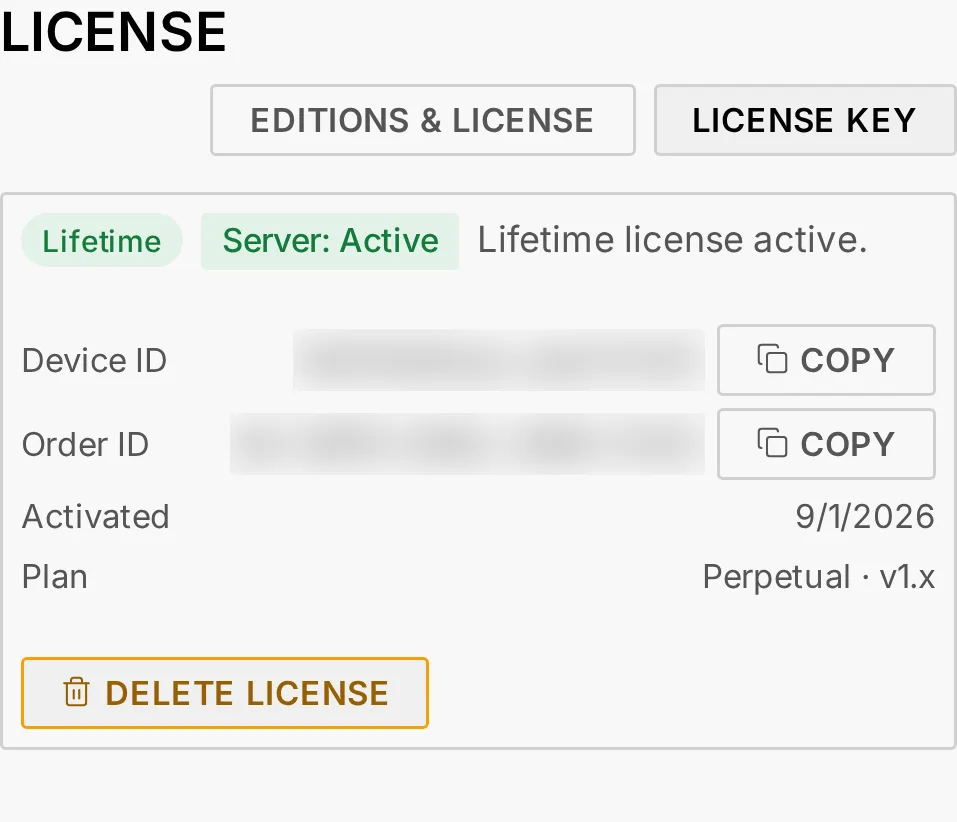
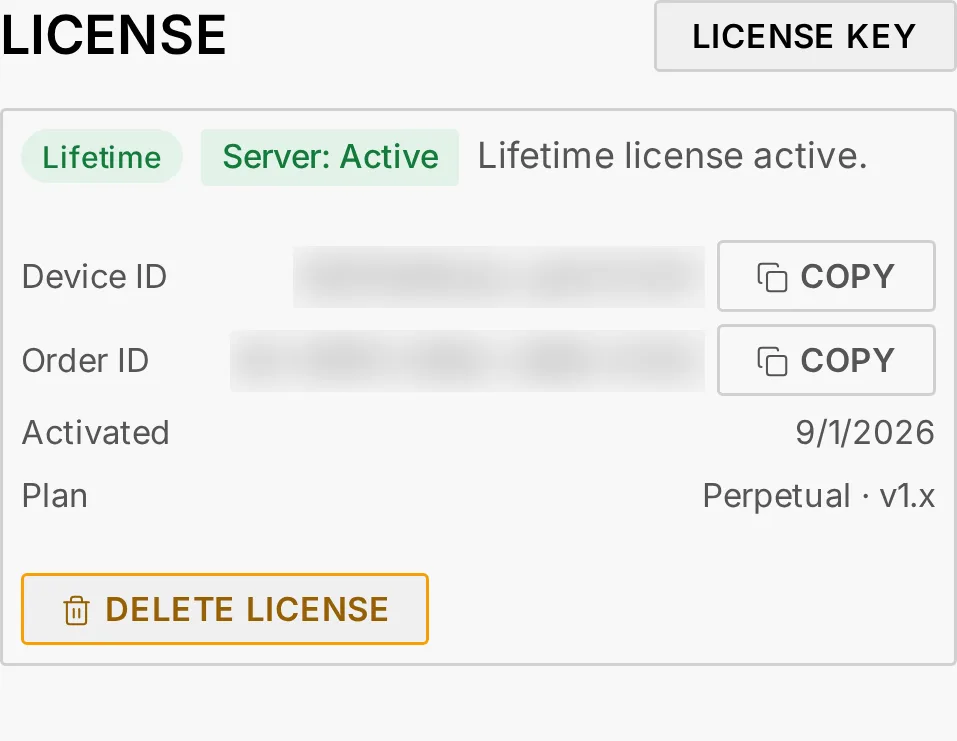
docs: describe the editions and the licence activation in the manual
The introduction lists what Starter and Pro open, tab by tab; the administration
chapter walks through the activation window and the check of an existing key, with
three new figures, and the licence panel's two figures are retaken without the
EDITIONS & LICENSE button. A locked Pro tab is said to open the activation window.
EDITIONS.md and the FAQ say every edition receives the updates of its major version.

diff --git a/docs/manual/07-administration.md b/docs/manual/07-administration.md
@@ -10,7 +10,7 @@ Admin — and **Config**, the configuration editor and its guided setup. Four ta
 The **Admin** tab gathers everything about accounts and the box's relationship with
 Audiogravi<sup>ty</sup>: the **user cards** (below), unread
 [announcements](#announcements), the [update banner](08-updating.md) — and the
-**licence** panel, which also opens when a Starter install taps a locked Pro tab.
+**licence** panel, where a Starter install lands when it taps a locked Pro tab.
 
 At the bottom of the tab, the **UI performance cockpit** measures the app itself in
 your browser: the live updates it receives, its timers, the memory it uses (in Chrome, Edge
@@ -500,13 +500,14 @@ are remembered per device.
 
 ## Licence
 
-The licence panel opens from the **Admin** tab (and automatically when a **Starter**
-install taps a Pro tab — those carry a small lock icon in the tab bar).
+The licence panel opens from the **Admin** tab. On a **Starter** install, tapping a Pro
+tab — those carry a small lock icon in the tab bar — brings you here too, with the
+*License activation* window open over the panel.
 
 - **Trial** — 30 days of full access, auto-activated on first run.
 - **Buying** — the licence panel lists the steps: *Pay with PayPal*, receive your
-  licence key by email, then **LICENSE KEY**, enter the key, **CHECK KEY** and
-  **ACTIVATE THIS MACHINE**. No restart is needed.
+  licence key by email, then activate it (see
+  [Activating a licence key](#activating-a-licence-key)). No restart is needed.
 - **Lifetime** — a `.lic` file for this one installation, identified by its
   **Device ID**. One-time payment, no subscription, no end date; it covers every 1.x
   version, and the 0.9 beta before it (see
@@ -530,6 +531,62 @@ Once the licence is activated the same panel changes shape: the countdown gives 
 the plan, the order the key came from, and the date it was activated.
 
 <img src="images/ios-license-active.webp" alt="The licence panel on an activated box: the Lifetime badge, the licence-server status, the Device ID and Order ID with their copy buttons, the activation date and the plan" width="360">
+
+### Activating a licence key
+
+**LICENSE KEY**, at the top of the licence panel, opens the *License activation* window.
+Its three steps are marked across the top: the one you are on stands out, those done
+turn green.
+
+1. **Key** — paste the key from your purchase email, `AG-XXXX-XXXX-XXXX-XXXX`.
+   *✓ Valid format* only means it has the right shape: tap **CHECK KEY →** to have it
+   checked.
+2. **Host** — *Key validated* gives the plan, and says whether this is the key's first
+   activation or a new activation on this same box. The **Device ID** is filled in: it
+   is this box, the one the licence will be tied to. The **Hostname** is filled in with
+   the box's name on your network; change it if you like, or leave it empty — it helps
+   tell your boxes apart. Tap **ACTIVATE THIS MACHINE →**, or **← BACK** to change the
+   key.
+3. **Activate** — *Activation successful*, with the key, the Device ID, the date and
+   the plan, and all three steps in green. Every Pro feature is open at once.
+   **DOWNLOAD .LIC FILE ↓** saves a copy of the licence file.
+
+<img src="images/ios-license-activation.webp" alt="The License activation window at its second step: Key validated with the plan, the Device ID filled in, the Hostname field, and the Back and Activate this machine buttons" width="360">
+
+<img src="images/ios-license-activated.webp" alt="The License activation window after a successful activation: all three steps in green, the key, the Device ID, the activation date, the plan, the Active status and the Download .lic file button" width="360">
+
+When a key is refused, the window says why. At **CHECK KEY**:
+
+- *No license found for this key on this device.* — check the key against your
+  purchase email. If it is right, it is tied to another box: after a reinstall or on a
+  new machine, see
+  [9. Troubleshooting](09-troubleshooting.md#licence-not-recognised-after-a-reinstall-or-a-new-machine).
+- *This license has been revoked.* or *This license expired on …* — the key can no
+  longer be activated.
+- *Could not reach the license server. Please try again.* — try again in a moment.
+
+At **ACTIVATE THIS MACHINE**:
+
+- *This license is already activated on another machine.* — the same as a key tied to
+  another box, above.
+- *License server temporarily unavailable. Please retry.* — try again in a moment. The
+  key stays filled in, even after you reload the page.
+
+### Checking a licence key
+
+Under the activation steps, **Verify existing license** looks a key up without
+activating anything. Paste the key and tap **VERIFY →**: this box's **Device ID**,
+filled in, is checked with it. The answer gives the plan, the end date of a
+time-limited licence, and the key's status:
+
+- **NOT ACTIVATED** — the key is valid and not yet used: activate it with the steps
+  above.
+- **ACTIVE** — the key is already activated on this box.
+- **REVOKED** or **EXPIRED** — the key can no longer be used.
+- *No license found for this key on this device.* — the key does not exist, or it is
+  tied to another box.
+
+<img src="images/ios-license-verify.webp" alt="Verify existing license: the key typed in, this box's Device ID, the Verify button, and the answer with the key, the plan and the Active status" width="360">
 
 ### What the box sends to the licence server
 

diff --git a/CHANGELOG.md b/CHANGELOG.md
@@ -9,7 +9,18 @@ and this landing) are documented here. Format based on
 
 ## [Unreleased]
 
+### Added
+- **[manual] The manual says how to activate a licence key, and how to check one.** The Licence section of the administration chapter walks through the *License activation* window's three steps — key, host, activate — and every refusal it can show, at each step; then *Verify existing license* and what each status means: *ACTIVE* is a key already activated on this box. Three figures show the second step, a successful activation and a checked key, taken with an example key and a made-up Device ID.
+- **[manual] The introduction lists what each edition opens.** Sixteen rows, Starter against Pro, under the names of the app's own tabs. They come from what the app locks: the Library, Pipeline, Systemd and Performance tabs, the playback controls and the full-screen player. The short table above them no longer gives a partial list of its own.
+
+### Changed
+- **[ui][manual] The licence panel's *EDITIONS & LICENSE* button is gone.** It opened a copy of the editions and of the licence agreement kept by hand in the app. The editions are in the manual's introduction, and the licence agreement is linked from the sign-in page and from the footer. *LICENSE KEY* moves up beside the panel's title, and the manual's two figures of the panel are retaken without the button.
+- **[manual] A locked Pro tab is said to open the activation window.** On Starter, tapping one takes you to the licence panel with the *License activation* window open over it; the manual said it opened the panel.
+
 ### Fixed
+- **[site][manual] Every edition is said to receive updates.** `EDITIONS.md` gave the trial and Starter no updates, and the manual's FAQ named Pro alone. The trial, Starter and Pro all receive the updates of their major version, as the licence server offers them; Pro holders keep a preferential price for the next major version.
+- **[ui] The activation window shows its last step done.** Once the licence was active, *03 · ACTIVATE* stayed black under a green *Activation successful*: a step is done once a later one is shown, and none comes after the third. All three now turn green.
+- **[ui] The activated licence's Device ID stays inside its frame.** Sixty-four characters with nowhere to break, it ran past the certificate's edge on a phone; it now wraps.
 - **[ui] In the top bar, each name sits on its figure's line, beside its own figure.** Wherever the names read inline, from 430 px wide, a name sat 2 px above its figure and 10 px from it — the uptime's 4 px — and on a phone or a tablet a figure stood nearly as close to the next name as to its own. Each name now shares its figure's line, 8 px from it, and two pairs stand 16 px apart. A figure turning orange or red still moves none of its neighbours. Under 430 px, where each name sits over its figure, nothing changes.
 
 ## [0.9.67] - 2026-10-06

diff --git a/docs/manual/01-introduction.md b/docs/manual/01-introduction.md
@@ -53,11 +53,36 @@ though everything remains open and inspectable if you want to.
 | Edition | Price | What you get |
 |---------|-------|--------------|
 | **Trial** | Free · 30 days | Everything, including all Pro features |
-| **Starter** | Free · forever | Profiles, Services, Audio Software, System, Users, **Config** (editor + guided setup) |
-| **Pro** | €49 · lifetime, one machine | Library, Player, Audio Pipeline, Performance tuning, Systemd tuning |
+| **Starter** | Free · forever | Running and setting up the box — see the table below |
+| **Pro** | €49 · lifetime, one machine | Everything, for good |
 
 Pro is a **lifetime licence** — no subscription, no renewal. You can start on the
 free 30-day trial; it activates automatically on first run.
+
+What each edition opens — the trial opens everything:
+
+| | Starter | Pro |
+|---|:---:|:---:|
+| **Profiles** — switch between audio scenarios in one tap | ✓ | ✓ |
+| **Services** — watch and control the audio services | ✓ | ✓ |
+| **Audio Software** — install, update and remove audio engines | ✓ | ✓ |
+| **System** — the hardware and the audio devices at a glance | ✓ | ✓ |
+| **Config** — each service's own settings, and the guided setup (administrators) | ✓ | ✓ |
+| **Admin** — users and passkeys, announcements, updates, the licence | ✓ | ✓ |
+| **Push notifications** | ✓ | ✓ |
+| **Now playing** — the track, its cover and its format, in the mini-player | ✓ | ✓ |
+| **DSD at full volume** — the volume locked while a DSD track plays | ✓ | ✓ |
+| **Playback controls** — play, pause, skip, seek, volume, and the full-screen player with its sleep timer | — | ✓ |
+| **Library** — browse, search and queue your music, UPnP servers, Roon, Qobuz, Tidal and HIGHRESAUDIO; send it to a network renderer | — | ✓ |
+| **Internet radio** | — | ✓ |
+| **Outputs and HQPlayer** — switch outputs, change HQPlayer's filter and noise shaper | — | ✓ |
+| **Pipeline** — the live signal path, from the source to the DAC | — | ✓ |
+| **Systemd** — real-time priorities and CPU pinning for the audio services | — | ✓ |
+| **Performance** — CPU governors and the latency test | — | ✓ |
+
+On Starter, a Pro tab carries a small lock; tapping it takes you to the licence panel,
+with the *License activation* window open (see
+[7. Administration → Licence](07-administration.md#licence)).
 
 > **Note:** streaming from Qobuz, Tidal or HIGHRESAUDIO requires your own active
 > subscription to each service. Audiogravi<sup>ty</sup> does not provide access to them.

diff --git a/EDITIONS.md b/EDITIONS.md
@@ -14,8 +14,9 @@ Days remaining are shown in **Admin › License**.
 
 ## Starter Edition — Free
 
-Activated automatically when the trial expires — no action required. Includes the essentials
-to run and monitor your audio system:
+Activated automatically when the trial expires — no action required. It keeps receiving the
+updates of its major version (e.g. v1.x), as Pro does. Includes the essentials to run and
+monitor your audio system:
 
 - **Profiles** — one-click switching between pre-configured audio chain scenarios; activates required services and stops conflicting ones automatically
 - **Services** — real-time monitoring and control of audio services (start / stop / restart / enable at boot) with live CPU, memory and I/O metrics, each with a sparkline of its recent values
@@ -60,7 +61,7 @@ Everything in Starter, plus:
 | **Cost** | Free | Free | One-time (€49) |
 | **Duration** | 30 days | Unlimited | Unlimited |
 | **Activation** | Automatic | Automatic | Manual |
-| **Updates** | — | — | v1.x included |
+| **Updates** (within the major version, e.g. v1.x) | ✓ | ✓ | ✓ |
 | **Profiles** | ✓ | ✓ | ✓ |
 | **Services** | ✓ | ✓ | ✓ |
 | **Software** | ✓ | ✓ | ✓ |

diff --git a/docs/manual/03-first-run.md b/docs/manual/03-first-run.md
@@ -194,8 +194,8 @@ map:
 
 <img src="images/ios-tab-menu.webp" alt="The tab menu on a phone: the app's tabs, and Library unfolded into its views — Browse, Search, Queue, Sources and Radio — the one shown marked" width="216">
 
-On a **Starter** licence the Pro tabs carry a small lock — tapping one opens the
-licence panel. **Config is not one of them**: editing a service's configuration
+On a **Starter** licence the Pro tabs carry a small lock — tapping one takes you to the
+licence panel, with the *License activation* window open. **Config is not one of them**: editing a service's configuration
 file and the guided setup are available on every edition — configuring the
 machine is part of owning it. The sticky **Now Playing bar** sits above the
 footer whatever the

diff --git a/RELEASE_NOTES.md b/RELEASE_NOTES.md
@@ -7,7 +7,16 @@ Synthesized overview of each release. For the full line-by-line changelog, see
 
 ## Unreleased
 
-_Nothing yet._
+### Licence
+
+**What each edition opens, in the manual.** The licence panel's *Editions & License* window
+is gone: the manual's introduction now lists, tab by tab, what Starter and Pro open, and the
+licence agreement stays one tap away from the sign-in page and the footer. Every edition —
+the trial, Starter and Pro — receives the updates of its major version.
+
+**Activating a key, step by step.** The manual walks through the activation window and the
+check of an existing key, with what each answer means. Once the licence is active, the
+window now shows all three steps done.
 
 ---
 

diff --git a/docs/manual/11-faq.md b/docs/manual/11-faq.md
@@ -57,8 +57,9 @@ licence reset is available on request — contact us at
 
 ## Are updates included?
 
-All v1.x updates are included with the Pro licence. Pro holders receive a
-preferential upgrade price for future major versions.
+Yes, on every edition: the trial, Starter and Pro all receive the updates of their
+major version (v1.x). Pro holders receive a preferential upgrade price for future
+major versions.
 
 ## How do I install Audiogravi<sup>ty</sup> on my phone?
 
